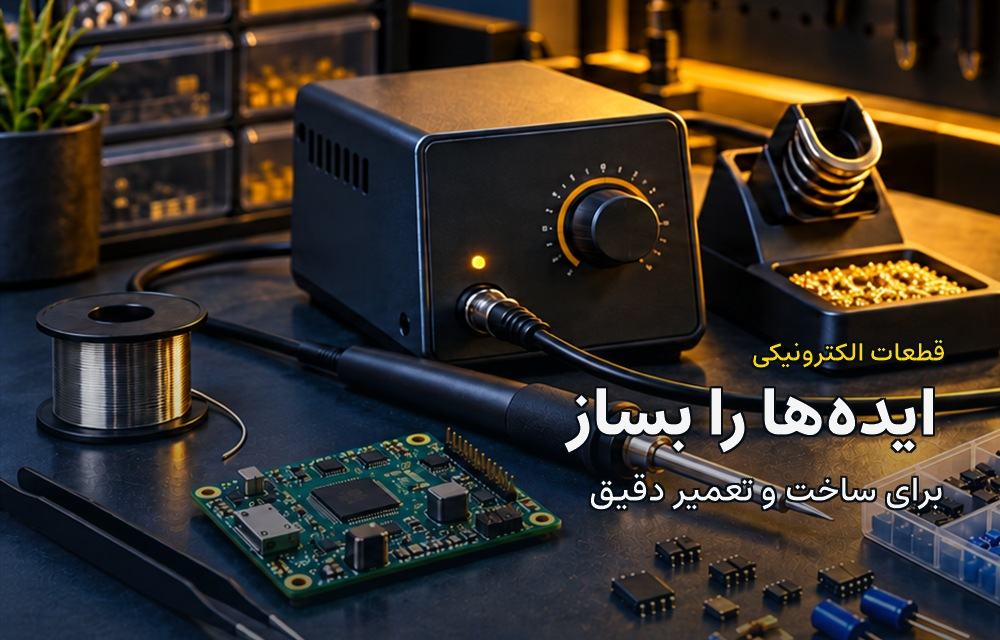
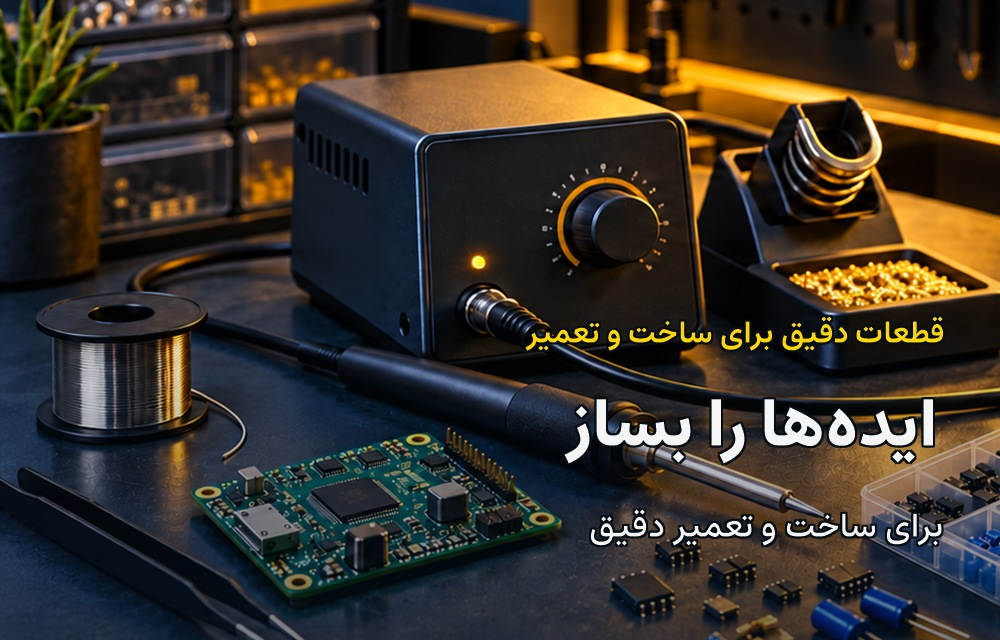
0

Changed region(s): [[0.527, 0.5, 0.961, 0.875]]

diff --git a/docs/media/images.md b/docs/media/images.md
@@ -51,7 +51,7 @@ content/products/
 | کاربرد | مسیر معمول | اندازهٔ پیشنهادی | وضعیت فعلی و نکتهٔ نمایش |
 |---|---|---:|---|
 | اسلایدر اصلی خانه — دسکتاپ | `content/sliders/` | **2160×800 px** (حدود 2.7:1) | قاب دسکتاپ ارتفاعی بین 320 و 440 px دارد و تصویر با `cover` نمایش داده میشود. بنرهای `electrical-components-pro-desktop-v2.png` و `electrical-measurement-desktop-v2.png` با حفظ ترکیب و رنگ، حاشیهٔ امن بیشتری برای متن دارند؛ اندازهٔ هر دو 2172×724 px است. نسخهٔ موبایل مستقل و با `cover` است. |
-| اسلایدر اصلی خانه — موبایل | `content/sliders/mobile/` | **1000×640 px** (حدود 1.56:1) | برای هر یک از شش بنر دسکتاپ، نسخهٔ موبایل مستقل ساخته شده است. متن کوتاه فارسی با فونت Estedad و هماهنگ با تیتر دسکتاپ، روی خود عکس raster شده است. سایهٔ تدریجی ملایم روی عکس و هالهٔ تیرهٔ دور حروف خوانایی را بهتر میکنند؛ نوشتهها راستچیناند و پنل یا ماسک مستطیلی ندارند. کیفیت JPEG با تنظیم بالا ذخیره میشود. نسبت فایل با قاب `cover` موبایل (حدود 220–300 px ارتفاع) هماهنگ است؛ هنگام افزودن موضوع تازه، خوانایی متن و کادر عکس را در عرضهای 360–412 px بررسی کنید. |
+| اسلایدر اصلی خانه — موبایل | `content/sliders/mobile/` | **1000×640 px** (حدود 1.56:1) | برای هر یک از شش بنر دسکتاپ، نسخهٔ موبایل مستقل ساخته شده است. متن کوتاه فارسی با فونت Estedad و هماهنگ با تیتر دسکتاپ، روی خود عکس raster شده است. جملهٔ آغازین با رنگ طلایی و فاصلهٔ بیشتر از تیتر و توضیح مشخص میشود؛ سایهٔ تدریجی عکس و هالهٔ دور حروف خوانایی را بهتر میکنند، بدون پنل یا ماسک مستطیلی. کیفیت JPEG با تنظیم بالا ذخیره میشود. نسبت فایل با قاب `cover` موبایل (حدود 220–300 px ارتفاع) هماهنگ است؛ هنگام افزودن موضوع تازه، خوانایی متن و کادر عکس را در عرضهای 360–412 px بررسی کنید. |
 | اسلایدرهای کوچک کالا در خانه | `shop/images/sliders/` | **800×800 px** (1:1) | چهار فایل فعلی 1254×1254 هستند. قاب تصویر کارت روی دسکتاپ 220 px و روی موبایل 190 px ارتفاع دارد. سوژه را وسط کادر و با حاشیهٔ امن بگذارید. |
 | کارت محصول، نتایج جستوجو و کالای مشابه | `content/products/images/card/` | **800×800 px** (1:1) | نسخهٔ کارت JPEG با کیفیت 84 از تصویر اصلی تولید شده و در کارتها و لیستها استفاده میشود. کارتهای Search با `cover` قاب را کامل پر میکنند؛ سایر variantها نیز بسته به چیدمان ممکن است `contain` یا `cover` داشته باشند. قاب کارت معمولاً 220 px و در بعضی اسلایدرهای موبایل 190 px ارتفاع دارد. |
 | عکس اصلی گالری جزئیات محصول | `content/products/images/main/` | **1600×1600 px** (حداقل 1200×1200) | فایلهای اصلی فعلی 1254×1254 هستند و بدون افت کیفیت نگهداری شدهاند. قاب بزرگ دسکتاپ حداقل 460 px، تبلت 360 px و موبایل 270 px ارتفاع دارد؛ چون در دسکتاپ ممکن است `cover` فعال باشد، اطراف محصول را خالی بگذارید. |
